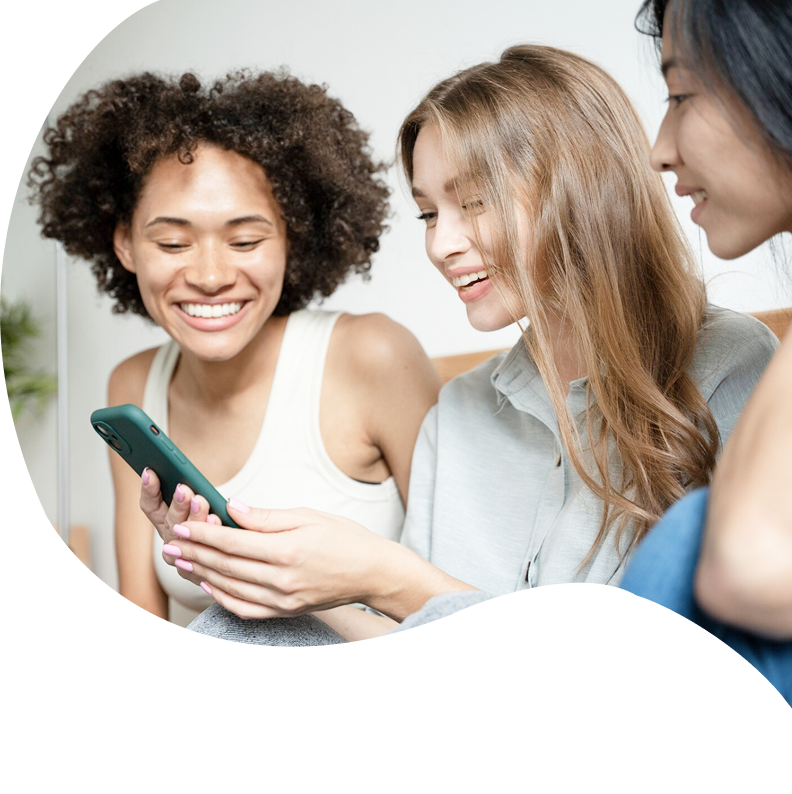
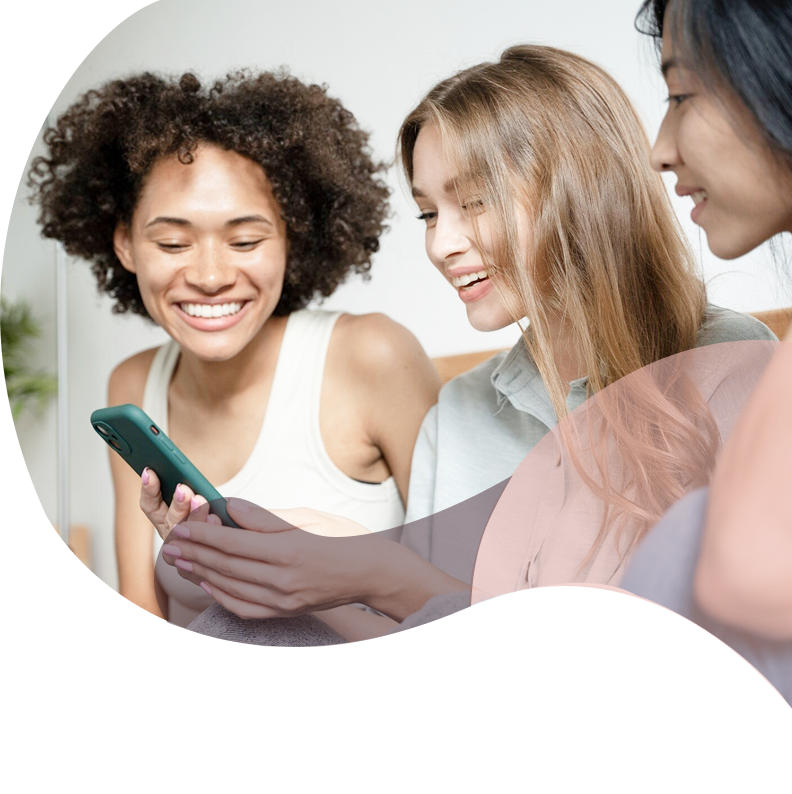
redesign admin layout + homepage

Changed region(s): [[0.1818, 0.4232, 1.0, 0.9068]]

diff --git a/app/(main)/page.tsx b/app/(main)/page.tsx
@@ -2,9 +2,8 @@ import Image from "next/image";
 import "../styles/styles.css"
 import ScrollHandler from "../../public/components/ScrollHandler";
 import MenuHandler from "../../public/components/MenuClient";
-import { NextResponse } from "next/server";
-import { getDb } from "@/lib/data/db";
 import Waitlist from "../../public/components/Waitlist";
+import HomeImg from "../../public/img/home-img.png";
 export default function Home() {
   
   return (
@@ -12,7 +11,7 @@ export default function Home() {
       <ScrollHandler />
       <MenuHandler />
       <div className="App">
-        <img className="mobile-logo" src="../img/home-logo.png" alt="Logo" />
+        <img className="mobile-logo" src="/img/home-logo.png" alt="Logo" />
 
   <button className="menu-toggle">
     <span></span>
@@ -35,13 +34,13 @@ export default function Home() {
     </div>
 
     <div className="align-logo-main-content">
-      <img className="home-vector" src="../img/home-vector.png" alt="Home Vector"/>
+      <img className="home-vector" src="/img/home-vector.png" alt="Home Vector"/>
 
       <div className="hero-image-container">
-        <img className="home-image" src="../img/home-img.png" alt="Hero Image"/>
+        <Image src={HomeImg} alt="Hero Image" className="home-image"/>
       </div>
 
-      <img className="logo" src="../img/meisie-logo.png" alt="Logo"/>
+      <img className="logo" src="/img/meisie-logo.png" alt="Logo"/>
 
       <div id="main-content">
         <div className="home-text-container">
@@ -64,7 +63,7 @@ export default function Home() {
         <div className="box-container">
           <div className="box">
             <div className="half-circle"></div>
-            <img src="../img/connect-vector.png" className="icon"/>
+            <img src="/img/connect-vector.png" className="icon"/>
             <div className="box-text">
               <p className="box-title">Authentic Connections</p>
               <p>Build meaningful relationships with women who understand and support your vision.</p>
@@ -73,7 +72,7 @@ export default function Home() {
 
           <div className="box">
             <div className="half-circle"></div>
-            <img src="../img/up-arrow-vector.png" className="icon"/>
+            <img src="/img/up-arrow-vector.png" className="icon"/>
             <div className="box-text">
               <p className="box-title">Career Growth</p>
               <p>Access opportunities and resources to accelerate your professional development.</p>
@@ -82,7 +81,7 @@ export default function Home() {
 
           <div className="box">
             <div className="half-circle"></div>
-            <img src="../img/share-vector.png" className="icon"/>
+            <img src="/img/share-vector.png" className="icon"/>
             <div className="box-text">
               <p className="box-title">Share Knowledge</p>
               <p>Learn from experts, share your expertise, and grow in a collaborative environment.</p>
@@ -91,7 +90,7 @@ export default function Home() {
 
           <div className="box">
             <div className="half-circle"></div>
-            <img src="../img/hand-vector.png" className="icon"/>
+            <img src="/img/hand-vector.png" className="icon"/>
             <div className="box-text">
               <p className="box-title">Safe Space</p>
               <p>A women-only platform where you can be authentic, and bold without judgement.</p>
@@ -104,8 +103,8 @@ export default function Home() {
     <div className="experience-page">
       <div className="experience-container">
         <div className="experience-box">
-          <img src="../img/communities-bg-vector.png" alt="Experience 1" className="experience-bg"/>
-          <img src="../img/experience-img.png" alt="Experience 2" className="experience-image"/>
+          <img src="/img/communities-bg-vector.png" alt="Experience 1" className="experience-bg"/>
+          <img src="/img/experience-img.png" alt="Experience 2" className="experience-image"/>
           <div className="experience-text">
             <h1 className="experience-title">What You'll Experience in Meisie</h1>
             <p className="experience-main-text pb-6">A curated women-only environment designed to help you flourish personally and professionally.</p>
@@ -136,14 +135,14 @@ export default function Home() {
         <div className="footer-brand">
           <div className="footer-logo">
             <div className="logo-text">
-              <img src="../img/footer-logo.png" alt="Logo"/>
+              <img src="/img/footer-logo.png" alt="Logo"/>
             </div>
           </div>
           <div className="social-icons">
-            <img src="../img/twitter-icon.png" alt="Twitter"/>
-            <img src="../img/facebook-icon.png" alt="Facebook"/>
-            <img src="../img/instagram-icon.png" alt="Instagram"/>
-            <img src="../img/linkedin-icon.png" alt="Linkedin"/>
+            <img src="/img/twitter-icon.png" alt="Twitter"/>
+            <img src="/img/facebook-icon.png" alt="Facebook"/>
+            <img src="/img/instagram-icon.png" alt="Instagram"/>
+            <img src="/img/linkedin-icon.png" alt="Linkedin"/>
           </div>
 
           <p className="follow-text">Follow us</p>

diff --git a/app/admin/login/page.tsx b/app/admin/login/page.tsx
@@ -2,6 +2,9 @@
 
 import { useState, useEffect } from "react";
 import { Button } from "@/components/ui/button"
+import WomanVector from "../../../public/img/womanvector.png";
+import BGVector from "../../../public/img/communities-bg-vector.png";
+import Blob from "../../../public/img/communities-vector-blob.png";
 import {
   Card,
   CardAction,
@@ -25,6 +28,8 @@ import { FaHome } from "react-icons/fa";
 import HomeVector from "../../../public/img/home-vector.png";
 import { Alert, AlertDescription, AlertTitle } from "@/components/ui/alert";
 import { Check, CheckCircle2Icon, InfoIcon } from "lucide-react";
+import { RiAdminFill } from "react-icons/ri";
+
 
 const quicksand = Quicksand({ subsets: ['latin'] });
 import React from 'react'
@@ -66,15 +71,19 @@ const LoginForm = () => {
 
   return (
     <div className={`${quicksand.className} bg-[#F8F6F5]`}>
-      
+
+      <div className="w-full h-full fixed">
+      <Image 
+        src={BGVector}
+        alt="Background Vector"
+        layout="fill"
+        objectFit="cover"
+        className="   -z-20"
+      />
+      </div>
+
       <div className="relative">
-        <Image
-          src={HomeVector}
-          alt="Home Vector"
-          width={800}
-          height={800}
-          className="object-cover absolute w-[20%] h-auto top-0 left-0"
-        />
+     
         <div className="flex flex-row items-center gap-2 absolute top-10 left-15 z-10">
           <FaHome
             className="left-6 text-[#4B2E38] hover:text-gray-900 cursor-pointer"
@@ -84,20 +93,18 @@ const LoginForm = () => {
           <Link href="/" className={`${quicksand.className} font-semibold text-xl text-[#4B2E38] hover:text-[#4B2E38] visited:text-[#4B2E38]`}>Back to Home</Link>
         </div>
       </div>
+                  <Image src={Blob} alt="Decorative Blob" width={300} height={300} className=" absolute z-3 inset-34 " />
+
       <div className="min-h-screen flex items-center justify-center p-6">
+        
         {/* Shared rounded container with image on the left and form on the right */}
         <div className="flex w-full max-w-4xl bg-white rounded-lg shadow-lg overflow-hidden">
           {/* Left: decorative image with overlay text - hide on very small screens */}
           <div className="hidden md:flex md:w-[70%] lg:w-[70%] relative overflow-hidden">
-            <Image
-              src={AbstractBG}
-              alt="Background"
-              width={800}
-              height={800}
-              className="object-cover w-full h-full"
-            />
+            <div className="object-cover w-full h-full bg-white"></div>
+          
             {/* Overlay text on top of image */}
-            <div className={`absolute inset-0 flex flex-col items-center justify-center bg-[#4B2E38]/30 text-white text-center p-6 ${quicksand.className}`}>
+            <div className={`absolute inset-0 flex flex-col items-center justify-center text-white text-center p-6 ${quicksand.className}`}>
               <Image
                 src={Logo}
                 alt="Logo"
@@ -105,23 +112,31 @@ const LoginForm = () => {
                 height={100}
                 className="object-cover absolute top-6 left-6 z-10"
               />
-              <h2 className="text-3xl font-bold mb-4">Welcome</h2>
-              <p className="text-lg">Sign in to access your admin dashboard.</p>
+              {/* WomanVector centered on top of background */}
+              <Image
+                src={WomanVector}
+                alt="Woman Vector"
+                width={300}
+                height={300}
+                className="object-contain absolute left-1/2 -translate-x-1/2 z-10"
+              />
+             
             </div>
+            <div className="absolute inset-0 flex flex-col  justify-end text-[#4B2E38] text-center p-6 z-20">
+             <h2 className="text-3xl font-bold mb-4 z-20 ">Welcome</h2>
+              <p className="text-lg font-semibold z-20 ">Sign in to access your admin dashboard.</p>
+              </div>
           </div>
 
           {/* Right: sign-in card */}
-          <div className="w-full md:w-1/2 lg:w-3/5 p-8 flex flex-col items-center justify-center">
+          <div className="w-full md:w-1/2 lg:w-3/5 p-8 flex flex-col items-center justify-center z-10 bg-white">
             <Card className="w-full max-w-md shadow-none bg-transparent border-none">
-              <Image
-                src={AdminIcon}
-                alt="Admin Icon"
-                width={80}
-                height={80}
-                className="object-cover w-[20%] h-full justify-center flex self-center"
-              />
+              <div className="flex justify-center flex-col items-center">
+                <RiAdminFill className="text-[#4B2E38] mb-4" size={40}></RiAdminFill>
+                                <CardTitle className="text-xl font-semibold">Admin</CardTitle>
+
+              </div>
               <CardHeader className="text-center">
-                <CardTitle className="text-2xl font-semibold">Admin</CardTitle>
               </CardHeader>
               <CardContent className="space-y-4">
                 <form onSubmit={handleSubmit} className="space-y-4">

diff --git a/app/admin/dashboard/page.tsx b/app/admin/dashboard/page.tsx
@@ -2,7 +2,7 @@
 
 import { useEffect, useState } from "react";
 import { Quicksand } from 'next/font/google';
-import Logo from "../../../public/img/home-logo.png";
+import Logo from "/img/home-logo.png";
 import Image from "next/image";
 import { authClient } from "@/lib/auth-client";
 import { useRouter } from "next/navigation";
